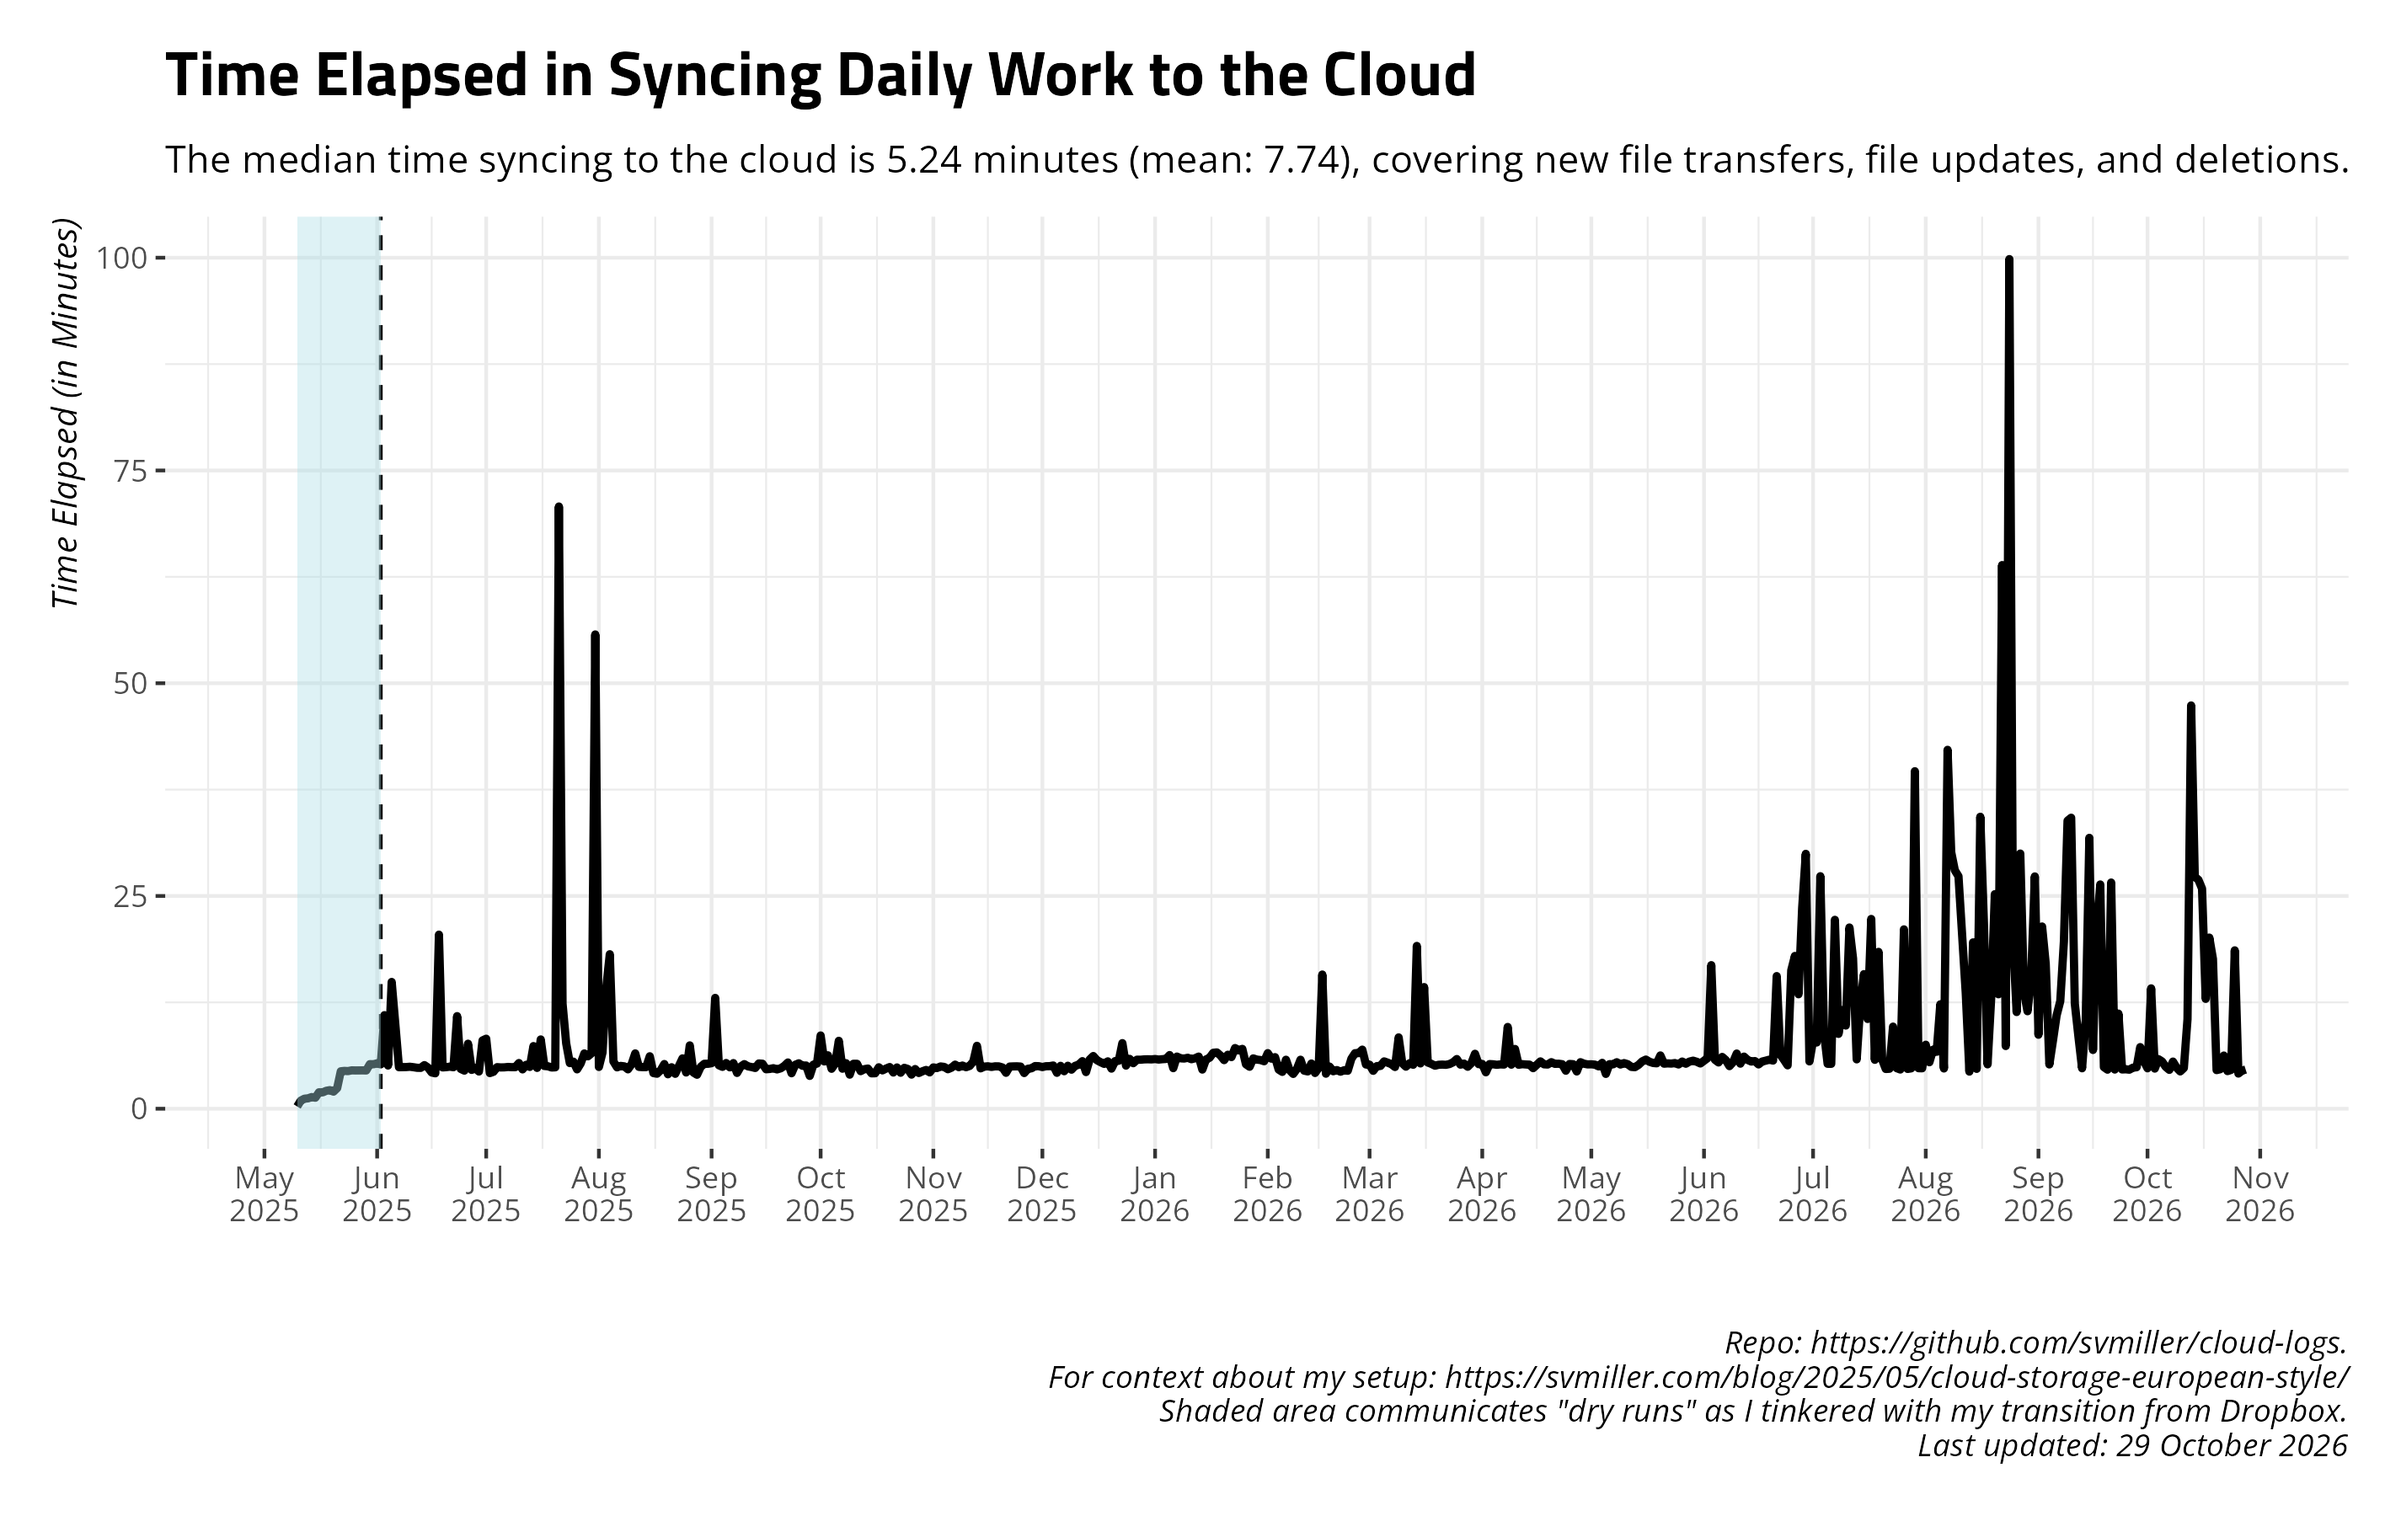
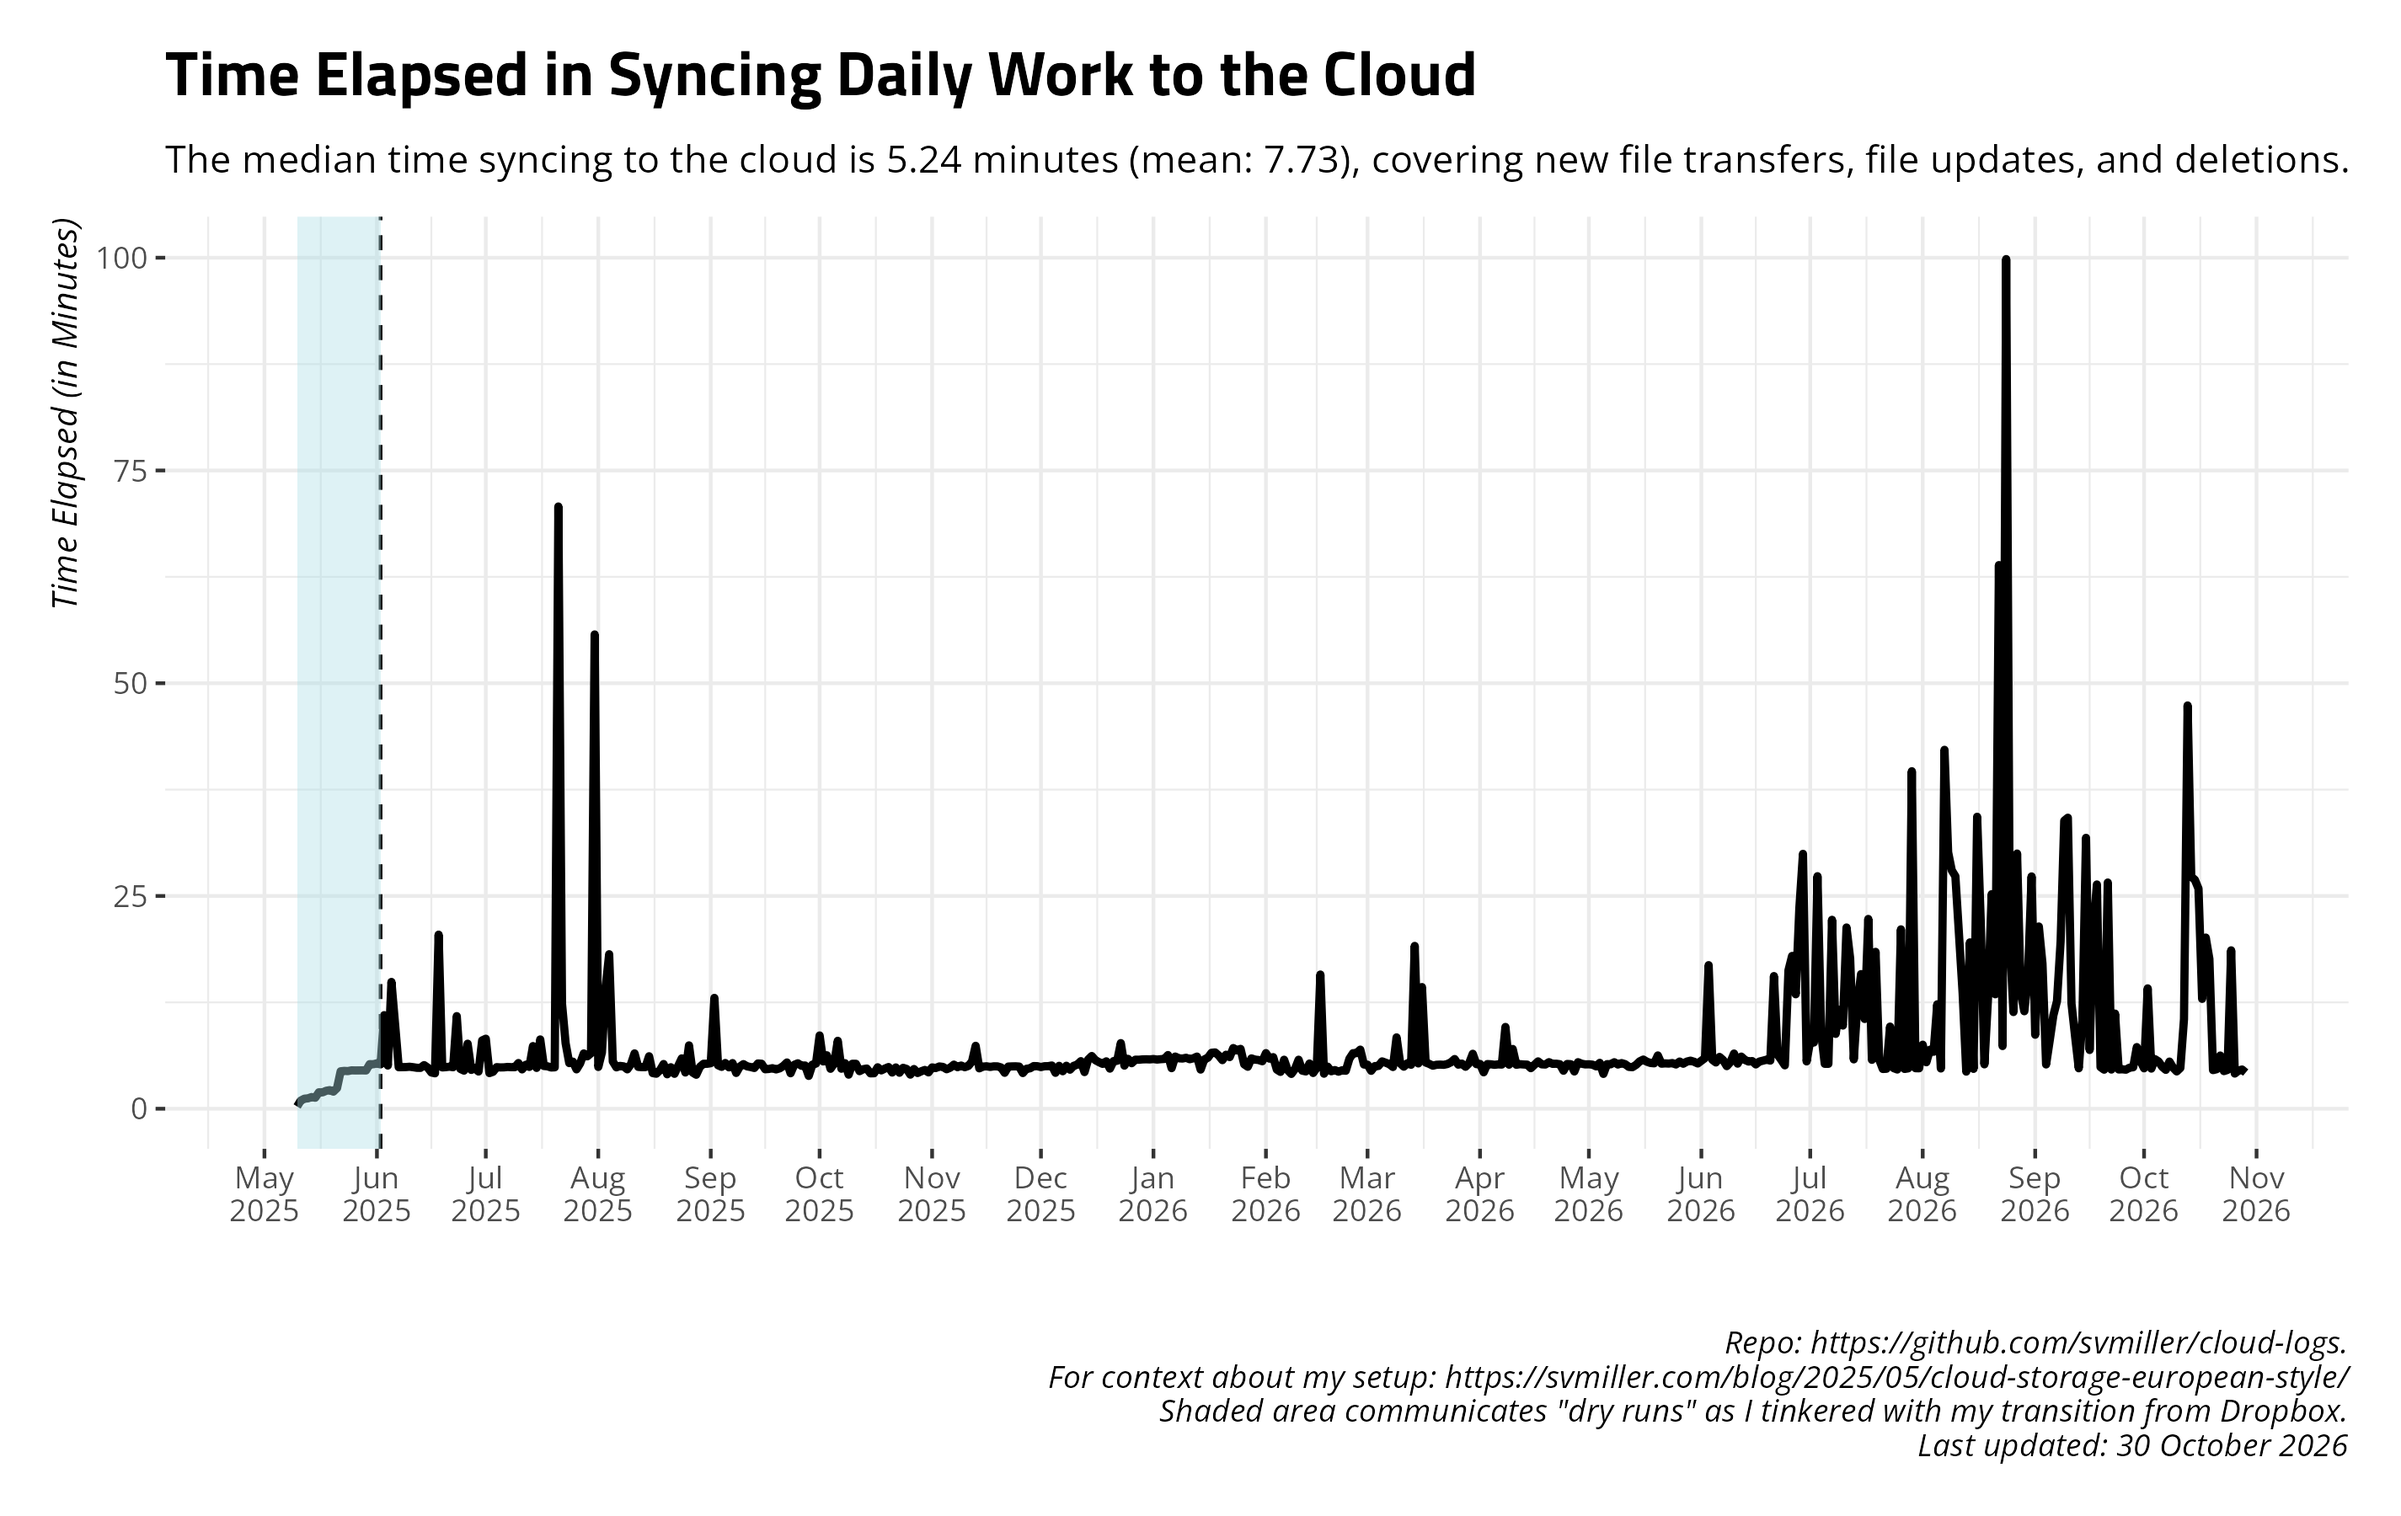
Date: 2026-10-30 09:00:36. Hi mom!

diff --git a/README.md b/README.md
@@ -27,17 +27,17 @@ and uploads to Github.
     #> # A tibble: 14 × 4
     #>    date       ftransfer stransfer   elapsed 
     #>    <date>         <dbl> <chr>       <chr>   
-    #>  1 2026-10-15         9 5.339 MiB   26m53.8s
-    #>  2 2026-10-16       147 17.869 MiB  25m51.8s
-    #>  3 2026-10-17         0 <NA>        12m54.4s
-    #>  4 2026-10-18         0 <NA>        20m6.6s 
-    #>  5 2026-10-19       108 20.905 MiB  17m36.0s
-    #>  6 2026-10-20       396 2.903 MiB   4m32.2s 
-    #>  7 2026-10-21        32 1.412 MiB   4m38.6s 
-    #>  8 2026-10-22        78 3.980 MiB   6m15.1s 
-    #>  9 2026-10-23       149 1.495 MiB   4m25.2s 
-    #> 10 2026-10-24        23 460.326 KiB 4m33.8s 
-    #> 11 2026-10-25        21 119.845 KiB 18m36.7s
-    #> 12 2026-10-26        94 9.100 MiB   4m7.9s  
-    #> 13 2026-10-27         2 3.880 MiB   4m28.2s 
-    #> 14 2026-10-28       405 10.600 MiB  4m36.4s
+    #>  1 2026-10-16       147 17.869 MiB  25m51.8s
+    #>  2 2026-10-17         0 <NA>        12m54.4s
+    #>  3 2026-10-18         0 <NA>        20m6.6s 
+    #>  4 2026-10-19       108 20.905 MiB  17m36.0s
+    #>  5 2026-10-20       396 2.903 MiB   4m32.2s 
+    #>  6 2026-10-21        32 1.412 MiB   4m38.6s 
+    #>  7 2026-10-22        78 3.980 MiB   6m15.1s 
+    #>  8 2026-10-23       149 1.495 MiB   4m25.2s 
+    #>  9 2026-10-24        23 460.326 KiB 4m33.8s 
+    #> 10 2026-10-25        21 119.845 KiB 18m36.7s
+    #> 11 2026-10-26        94 9.100 MiB   4m7.9s  
+    #> 12 2026-10-27         2 3.880 MiB   4m28.2s 
+    #> 13 2026-10-28       405 10.600 MiB  4m36.4s 
+    #> 14 2026-10-29       158 4.397 MiB   4m14.9s
